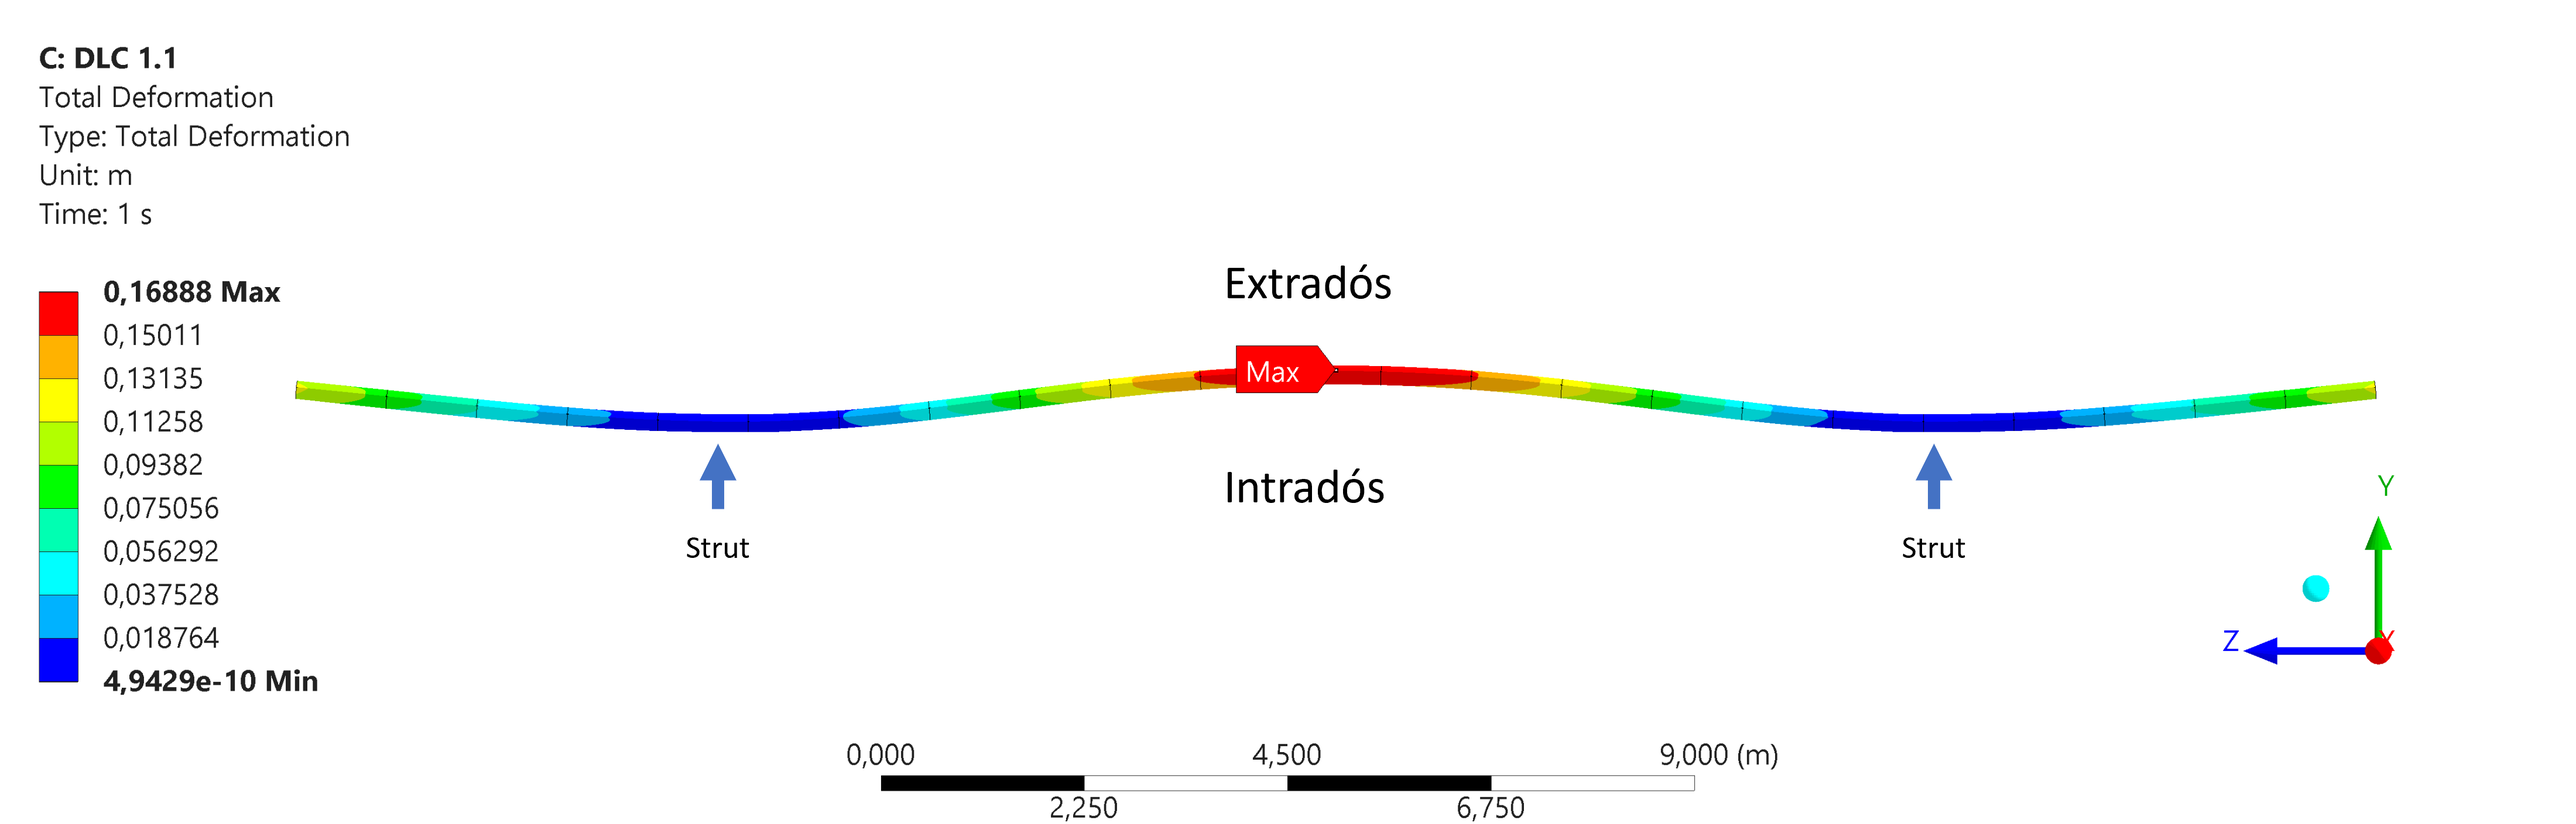
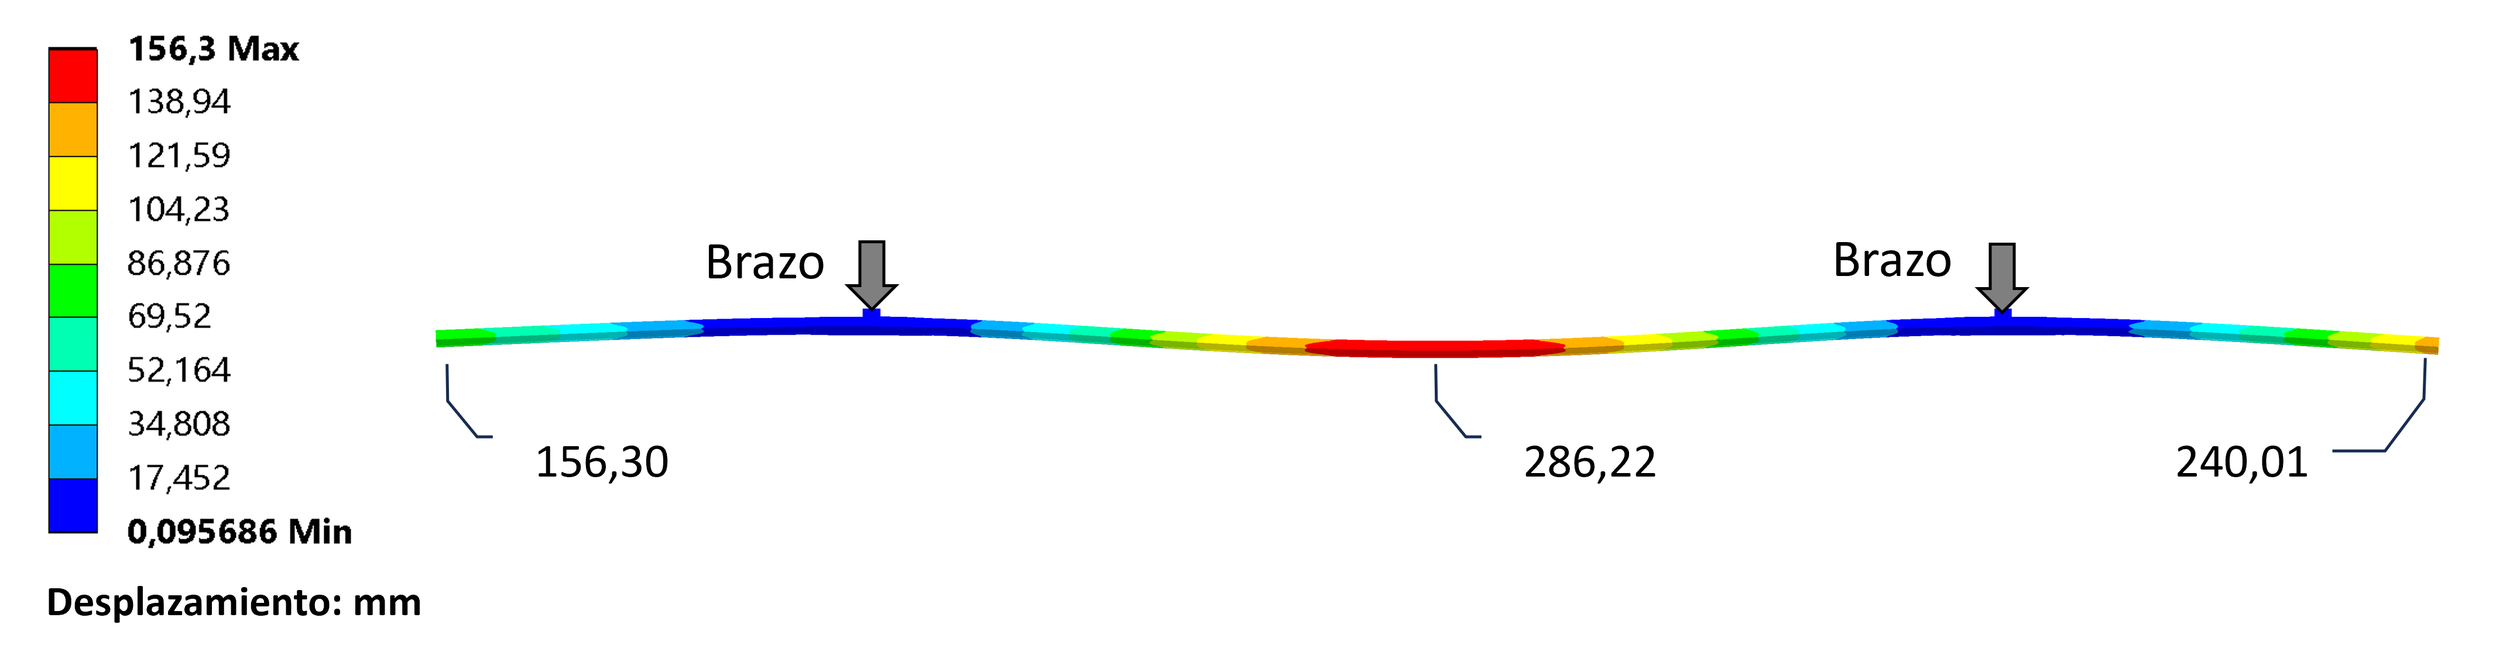
Figura de desplazamiento del DLC 1.1 y term 'desplazamiento' en lugar de deformación
Agrega el contorno de desplazamiento del DLC 1.1, con los valores en las puntas
de los dos voladizos (240,0 y 156,3 mm) y en el centro del vano (286,2 mm), y
reemplaza la imagen de tensión máxima por su última versión.

Renombra el concepto de 'deformación total' a 'desplazamiento', definido como la
distancia que recorre cada sección respecto de su posición sin carga, que es lo
que la magnitud representa y evita la ambigüedad con la deformación unitaria. Se
conserva 'deformación' solo donde designa deformación de membrana.

diff --git a/4 Resultados.tex b/4 Resultados.tex
@@ -1,6 +1,6 @@
 \chapter{Resultados}
 
-Los resultados se presentan siguiendo la secuencia de la metodología expuesta en el Capítulo~3, de modo que cada conjunto de valores se apoya en el anterior. Se parte de la caracterización del emplazamiento (recurso eólico, propiedades termofísicas del aire y rango del número adimencional de Reynolds), que fija las condiciones ambientales de todo el análisis. Sobre esa base se exponen la caracterización aerodinámica del perfil NACA 0018 y las simulaciones aerodinámicas del rotor, de las cuales se obtienen las series temporales de fuerzas sobre la pala. A partir de dichas series se determinan las cargas de diseño de los casos DLC 1.1 y 1.3 y el espectro de fatiga del DLC 1.2, conforme a IEC 61400-1~\parencite{IEC61400-1}; las primeras constituyen la entrada al modelo de elementos finitos. El capítulo cierra con la verificación estructural de la pala, donde las tensiones y deformaciones obtenidas se contrastan con los criterios de resistencia última, estabilidad, deflexión y fatiga que establece la norma.
+Los resultados se presentan siguiendo la secuencia de la metodología expuesta en el Capítulo~3, de modo que cada conjunto de valores se apoya en el anterior. Se parte de la caracterización del emplazamiento (recurso eólico, propiedades termofísicas del aire y rango del número adimencional de Reynolds), que fija las condiciones ambientales de todo el análisis. Sobre esa base se exponen la caracterización aerodinámica del perfil NACA 0018 y las simulaciones aerodinámicas del rotor, de las cuales se obtienen las series temporales de fuerzas sobre la pala. A partir de dichas series se determinan las cargas de diseño de los casos DLC 1.1 y 1.3 y el espectro de fatiga del DLC 1.2, conforme a IEC 61400-1~\parencite{IEC61400-1}; las primeras constituyen la entrada al modelo de elementos finitos. El capítulo cierra con la verificación estructural de la pala, donde las tensiones y los desplazamientos obtenidos se contrastan con los criterios de resistencia última, estabilidad, deflexión y fatiga que establece la norma.
 
 \section{Caracterización del recurso eólico}
 \label{sec:recurso_eolico}
@@ -666,7 +666,7 @@ El margen a fatiga no habilita, por lo demás, una reducción del espesor de par
 \section{Verificación estructural de la pala}
 \label{sec:resultados_fem}
 
-Las fuerzas de diseño por estación de la Sección~\ref{sec:comparacion_dlc}, junto con las cargas inerciales mayoradas, constituyen las cargas del modelo de elementos finitos descrito en la Sección~\ref{sec:fem}. Su resolución se aborda en cuatro pasos. Primero se verifica que los resultados sean independientes de la discretización, sobre las dos magnitudes que deciden una verificación. Luego se describen las condiciones de borde y las cargas aplicadas. A continuación se presentan las tensiones y deformaciones de los casos de carga última, y finalmente se evalúan con ellas los criterios de resistencia última, estabilidad y deflexión de la norma IEC 61400-1~\parencite{IEC61400-1}.
+Las fuerzas de diseño por estación de la Sección~\ref{sec:comparacion_dlc}, junto con las cargas inerciales mayoradas, constituyen las cargas del modelo de elementos finitos descrito en la Sección~\ref{sec:fem}. Su resolución se aborda en cuatro pasos. Primero se verifica que los resultados sean independientes de la discretización, sobre las dos magnitudes que deciden una verificación. Luego se describen las condiciones de borde y las cargas aplicadas. A continuación se presentan las tensiones y los desplazamientos de los casos de carga última, y finalmente se evalúan con ellas los criterios de resistencia última, estabilidad y deflexión de la norma IEC 61400-1~\parencite{IEC61400-1}.
 
 Cada caso de carga última aporta dos estados al modelo estructural, uno por cada sentido de la componente normal (Sección~\ref{sec:comparacion_dlc}), y cada uno de ellos se resuelve sobre la sección de apoyo que corresponda, de modo que la envolvente de cargas de la Sección 3.17 de la IEC 61400-5 quede cubierta en las dos posiciones candidatas a gobernar~\parencite{IEC61400-5}. A ellos se añade un caso de referencia con las cargas inerciales como única solicitación, que permite separar la contribución de la rotación y que sirve además para calibrar la conversión momento-tensión del análisis de fatiga.
 
@@ -767,7 +767,7 @@ La Figura~\ref{fig:fem_detalle_union} presenta el detalle constructivo de la uni
 
 \subsection{Resultados del análisis estructural}
 
-Se reportan primero las tensiones y la deformación bajo las cargas del DLC 1.1, caso gobernante de la resistencia última, y a continuación las correspondientes al DLC 1.3. Adicionalmente, se presenta un caso de referencia resuelto únicamente con las cargas inerciales (aceleración centrífuga y gravedad, sin fuerzas aerodinámicas), que permite cuantificar la contribución de la rotación al estado tensional.
+Se reportan primero las tensiones y el desplazamiento bajo las cargas del DLC 1.1, caso gobernante de la resistencia última, y a continuación las correspondientes al DLC 1.3. Adicionalmente, se presenta un caso de referencia resuelto únicamente con las cargas inerciales (aceleración centrífuga y gravedad, sin fuerzas aerodinámicas), que permite cuantificar la contribución de la rotación al estado tensional.
 
 \subsubsection{Tensiones principales}
 
@@ -793,14 +793,14 @@ La Figura~\ref{fig:fem_min11} muestra la tensión principal mínima, $\sigma_{3,
     \label{fig:fem_min11}
 \end{figure}
 
-\subsubsection{Deformación}
+\subsubsection{Desplazamiento}
 
-La Figura~\ref{fig:fem_deformacion11} presenta la deformación total de la pala bajo las cargas de diseño del DLC 1.1. La deformación máxima es de $0{,}286$~m y ocurre en la zona central de la pala, entre ambos apoyos.
+La Figura~\ref{fig:fem_deformacion11} presenta el desplazamiento de la pala bajo las cargas de diseño del DLC 1.1, entendido como la distancia que recorre cada sección respecto de su posición original. El máximo, de $286{,}2$~mm, ocurre en el centro del vano entre las dos conexiones. Las puntas de los voladizos alcanzan $240{,}0$~mm la superior y $156{,}3$~mm la inferior, valores del mismo orden que el del vano porque el apoyo deformable permite el giro de la conexión y los voladizos acompañan la flexión del tramo central (Sección~\ref{sec:condiciones_borde}).
 
 \begin{figure}[H]
     \centering
     \includegraphics[width=\textwidth]{Figuras/Figuras Resultados/fem_deformacion11.png}
-    \caption{Deformación total, DLC 1.1.}
+    \caption[Desplazamiento de la pala, DLC 1.1.]{Desplazamiento de la pala bajo las cargas del DLC 1.1, en mm, respecto de su posición sin carga. Se indican los valores en las puntas de los dos voladizos y en el centro del vano.}
     \label{fig:fem_deformacion11}
 \end{figure}
 
@@ -824,16 +824,16 @@ En compresión, la tensión principal mínima (Figura~\ref{fig:fem_min13}) alcan
     \label{fig:fem_min13}
 \end{figure}
 
-La deformación total (Figura~\ref{fig:fem_deformacion13}) alcanza un máximo de $0{,}260$~m, nuevamente en la zona central entre apoyos.
+El desplazamiento (Figura~\ref{fig:fem_deformacion13}) alcanza un máximo de $260{,}0$~mm, nuevamente en el centro del vano.
 
 \begin{figure}[H]
     \centering
     \includegraphics[width=\textwidth]{Figuras/Figuras Resultados/fem_deformacion13.png}
-    \caption{Deformación total, DLC 1.3.}
+    \caption{Desplazamiento de la pala, DLC 1.3, en mm respecto de su posición sin carga.}
     \label{fig:fem_deformacion13}
 \end{figure}
 
-Que la tensión máxima y la deformación resulten menores que en el DLC 1.1 pese a la mayor carga global tiene su origen en la distribución de las fuerzas. Ambos casos se resuelven con idénticas condiciones de borde y aceleraciones, por lo que la única diferencia entre ellos es el perfil de carga por estación. El DLC 1.1, extraído de un único instante de la simulación, concentra mayor carga en el vano central entre apoyos, cuya flexión solicita las conexiones y produce la flecha máxima del vano, mientras que el DLC 1.3, construido como media de máximos por estación, distribuye la carga de forma más suave hacia los voladizos (Sección~\ref{sec:comparacion_dlc}), lo que se refleja en una compresión levemente mayor pero una tracción y una deflexión menores.
+Que la tensión máxima y el desplazamiento resulten menores que en el DLC 1.1 pese a la mayor carga global tiene su origen en la distribución de las fuerzas. Ambos casos se resuelven con idénticas condiciones de borde y aceleraciones, por lo que la única diferencia entre ellos es el perfil de carga por estación. El DLC 1.1, extraído de un único instante de la simulación, concentra mayor carga en el vano central entre apoyos, cuya flexión solicita las conexiones y produce la flecha máxima del vano, mientras que el DLC 1.3, construido como media de máximos por estación, distribuye la carga de forma más suave hacia los voladizos (Sección~\ref{sec:comparacion_dlc}), lo que se refleja en una compresión levemente mayor pero una tracción y un desplazamiento menores.
 
 \subsubsection{Contribución de las cargas inerciales}
 \label{sec:solo_inercial}
